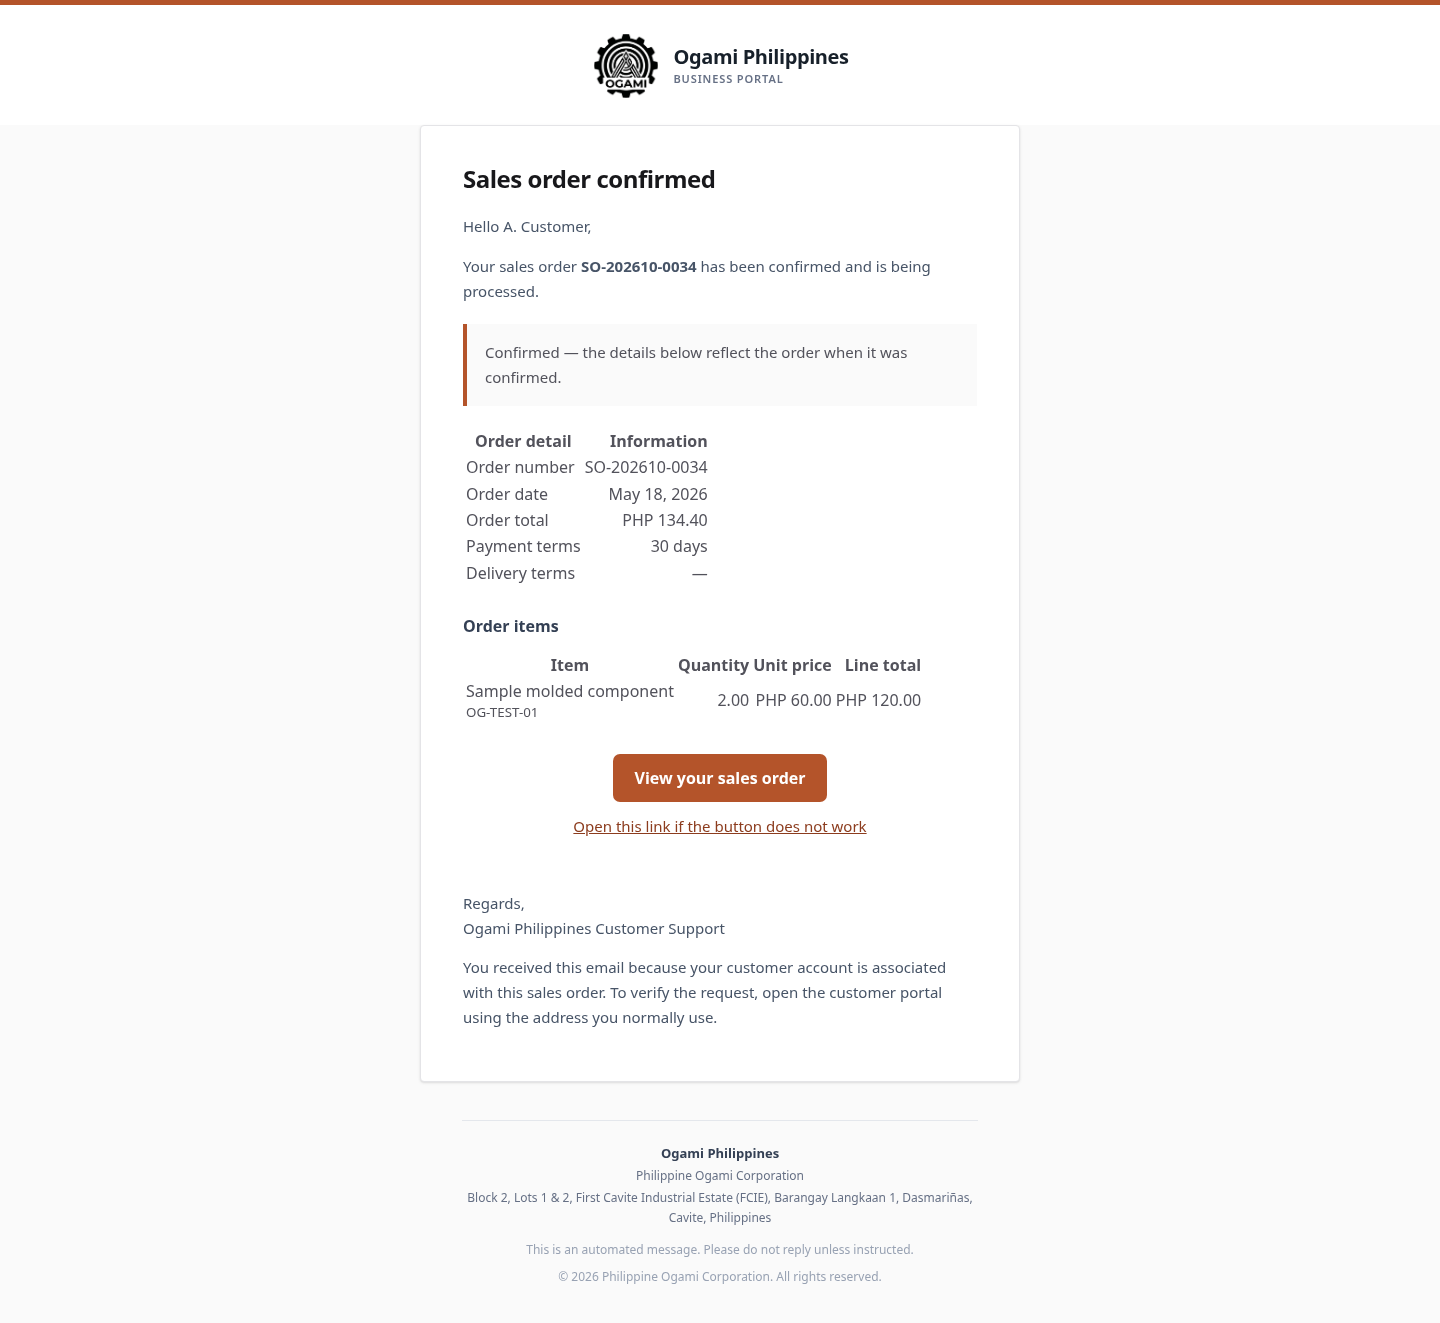
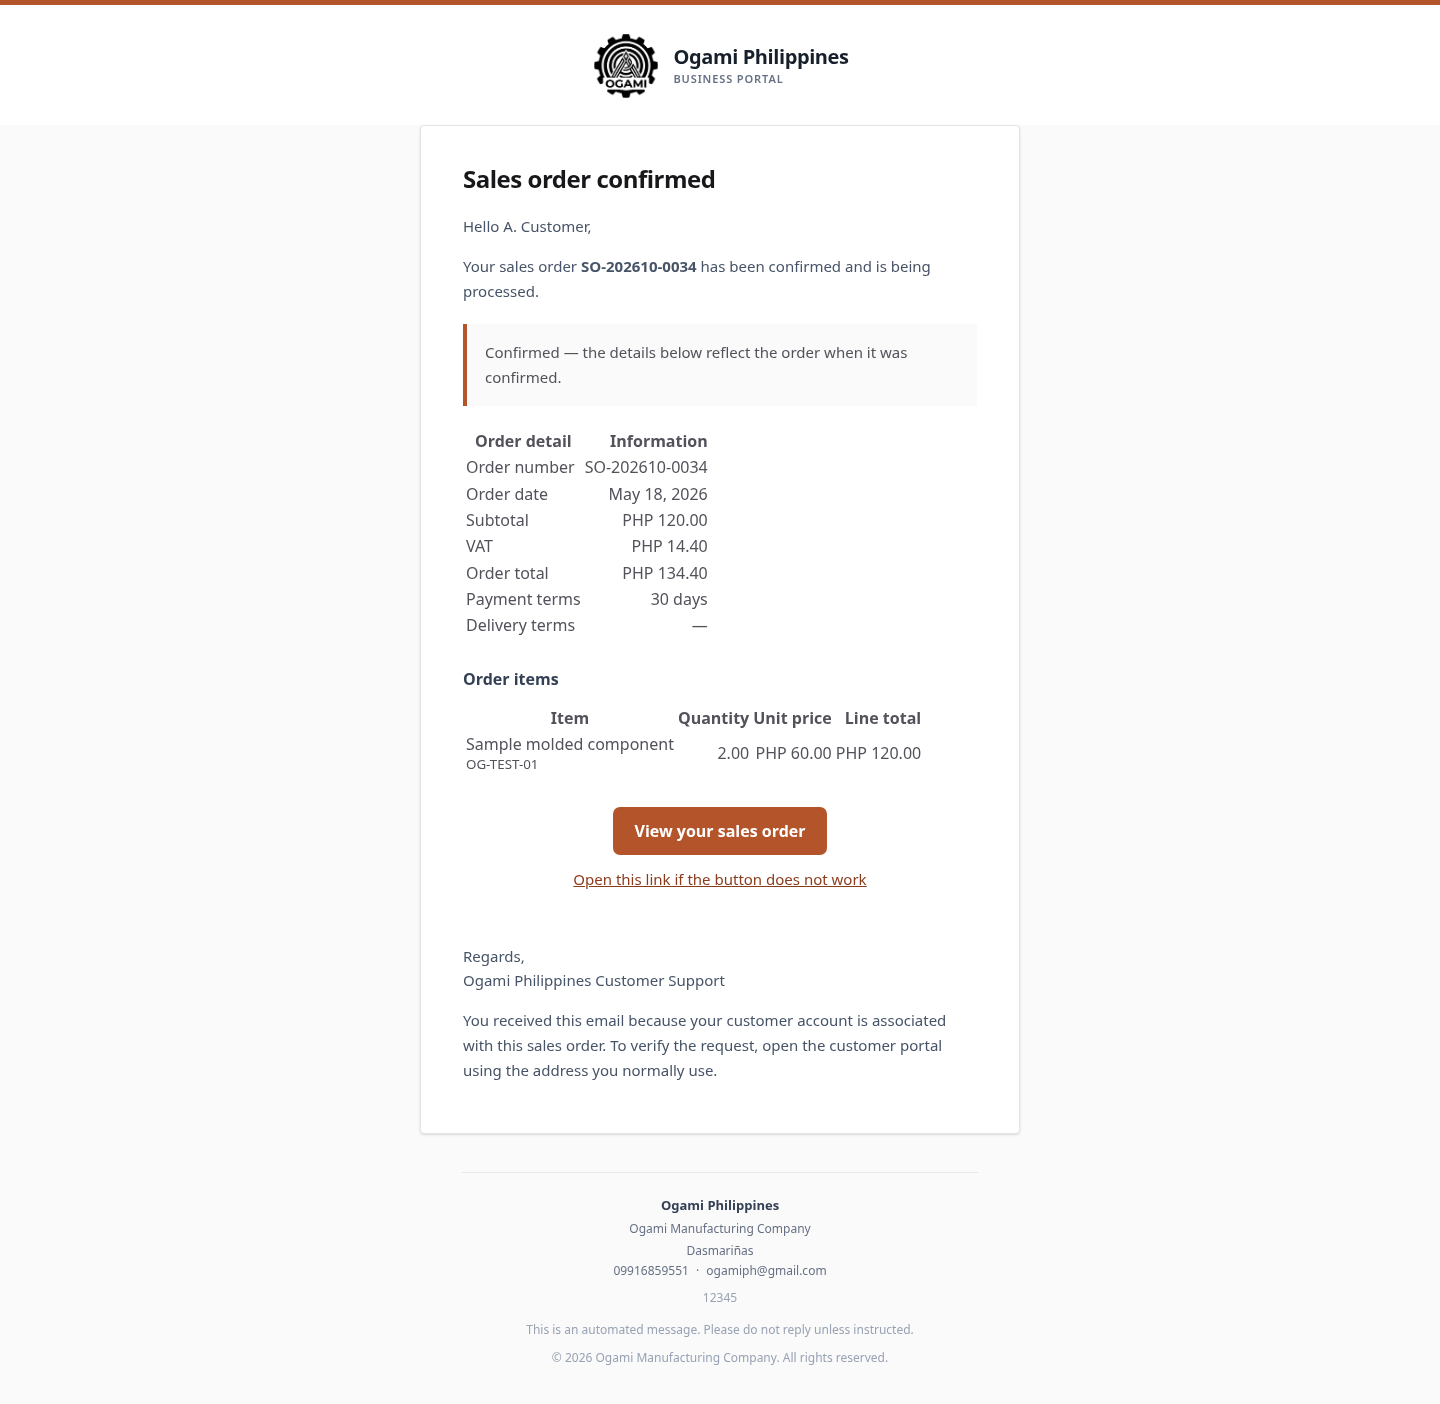
fix(email): include VAT in sales order confirmation

diff --git a/api/tests/Feature/Email/FeatureEmailIntegrationTest.php b/api/tests/Feature/Email/FeatureEmailIntegrationTest.php
@@ -53,6 +53,10 @@ class FeatureEmailIntegrationTest extends TestCase
 
     public function test_customer_sales_order_email_contains_order_data_and_portal_link(): void
     {
+        config([
+            'app.frontend_url' => 'https://portal.example.test',
+            'app.url' => 'https://api.example.test',
+        ]);
         $customer = Customer::factory()->create([
             'email' => 'customer@example.test',
             'contact_person' => 'A. <img src=x onerror=alert(1)> Customer',
@@ -82,9 +86,15 @@ class FeatureEmailIntegrationTest extends TestCase
 
             self::assertTrue($mail->hasTo('customer@example.test'));
             self::assertSame($salesOrder->so_number, $mail->snapshot['so_number']);
+            self::assertSame('120.00', $mail->snapshot['subtotal']);
+            self::assertSame('14.40', $mail->snapshot['vat_amount']);
             self::assertStringContainsString('<title>Sales order confirmed</title>', $rendered);
+            self::assertStringContainsString('Subtotal', $rendered);
+            self::assertStringContainsString(app(\App\Common\Services\CurrencyDisplayService::class)->format('14.40'), $rendered);
             self::assertStringContainsString('Order total', $rendered);
             self::assertStringContainsString(app(\App\Common\Services\CurrencyDisplayService::class)->format($salesOrder->total_amount), $rendered);
+            self::assertStringContainsString('https://portal.example.test/portal/customer/orders/'.$salesOrder->hash_id, $rendered);
+            self::assertStringNotContainsString('https://api.example.test/portal/customer/orders/', $rendered);
             self::assertStringContainsString('Sample molded component', $rendered);
             self::assertStringContainsString('Hello A. Customer,', $rendered);
             self::assertStringNotContainsString('<img src=x', $rendered);
@@ -107,7 +117,12 @@ class FeatureEmailIntegrationTest extends TestCase
             'email' => 'customer@example.test',
             'contact_person' => 'Original Contact',
         ]);
-        $salesOrder = SalesOrder::factory()->create(['customer_id' => $customer->id, 'total_amount' => '120.00']);
+        $salesOrder = SalesOrder::factory()->create([
+            'customer_id' => $customer->id,
+            'subtotal' => '120.00',
+            'vat_amount' => '0.00',
+            'total_amount' => '120.00',
+        ]);
         $product = Product::factory()->create(['name' => 'Original Part', 'part_number' => 'PART-OLD']);
         $item = SalesOrderItem::factory()->create([
             'sales_order_id' => $salesOrder->id,
@@ -119,7 +134,7 @@ class FeatureEmailIntegrationTest extends TestCase
         $event = new SalesOrderConfirmed($salesOrder->fresh());
 
         $customer->update(['email' => 'changed@example.test', 'contact_person' => 'Changed Contact']);
-        $salesOrder->update(['total_amount' => '999.00']);
+        $salesOrder->update(['subtotal' => '999.00', 'vat_amount' => '0.00', 'total_amount' => '999.00']);
         $item->update(['quantity' => '9.00', 'unit_price' => '111.00', 'total' => '999.00']);
         $product->update(['name' => 'Changed Part', 'part_number' => 'PART-NEW']);
 
@@ -132,6 +147,7 @@ class FeatureEmailIntegrationTest extends TestCase
                 && str_contains($rendered, 'Original Contact')
                 && str_contains($rendered, '120.00')
                 && str_contains($rendered, 'Original Part')
+                && str_contains($rendered, app(\App\Common\Services\CurrencyDisplayService::class)->format('120.00'))
                 && ! str_contains($rendered, 'Changed Contact')
                 && ! str_contains($rendered, '999.00')
                 && ! str_contains($rendered, 'Changed Part');

diff --git a/api/app/Modules/CRM/Mail/CustomerSalesOrderConfirmedMail.php b/api/app/Modules/CRM/Mail/CustomerSalesOrderConfirmedMail.php
@@ -71,6 +71,8 @@ class CustomerSalesOrderConfirmedMail extends QueuedMailable
                     'so_number' => $this->safeMarkdownText($snapshot['so_number'], 'Sales order'),
                     'delivery_terms' => $this->safeMarkdownText($snapshot['delivery_terms'] ?? null, ''),
                     'date' => $snapshot['date'] ? \Illuminate\Support\Carbon::parse($snapshot['date'])->format('M d, Y') : null,
+                    'subtotal' => isset($snapshot['subtotal']) ? $currency->format($snapshot['subtotal']) : null,
+                    'vat_amount' => isset($snapshot['vat_amount']) ? $currency->format($snapshot['vat_amount']) : null,
                     'total_amount' => $currency->format($snapshot['total_amount']),
                 ],
                 'items' => $items,

diff --git a/api/app/Modules/CRM/Events/SalesOrderConfirmed.php b/api/app/Modules/CRM/Events/SalesOrderConfirmed.php
@@ -41,6 +41,8 @@ class SalesOrderConfirmed implements ShouldBroadcast, ToleratesNewerModelState
             'customer_name' => $salesOrder->customer?->contact_person ?: ($salesOrder->customer?->name ?: 'Customer'),
             'so_number' => (string) $salesOrder->so_number,
             'date' => $salesOrder->date?->toDateString(),
+            'subtotal' => (string) $salesOrder->subtotal,
+            'vat_amount' => (string) $salesOrder->vat_amount,
             'total_amount' => (string) $salesOrder->total_amount,
             'payment_terms_days' => $salesOrder->payment_terms_days,
             'delivery_terms' => $salesOrder->delivery_terms,

diff --git a/api/resources/views/emails/customer/sales-order-confirmed.blade.php b/api/resources/views/emails/customer/sales-order-confirmed.blade.php
@@ -13,6 +13,12 @@ Confirmed — the details below reflect the order when it was confirmed.
 |---|---:|
 | Order number | {{ $order['so_number'] }} |
 | Order date | {{ $order['date'] ?? '—' }} |
+@if ($order['subtotal'] !== null)
+| Subtotal | {{ $order['subtotal'] }} |
+@endif
+@if ($order['vat_amount'] !== null)
+| VAT | {{ $order['vat_amount'] }} |
+@endif
 | Order total | {{ $order['total_amount'] }} |
 | Payment terms | {{ $order['payment_terms_days'] !== null ? $order['payment_terms_days'].' days' : '—' }} |
 | Delivery terms | {{ $order['delivery_terms'] ?: '—' }} |

diff --git a/docs/emails/E-010-sales-order-confirmation.md b/docs/emails/E-010-sales-order-confirmation.md
@@ -2,13 +2,13 @@
 
 ## Snapshot behavior
 
-`SalesOrderConfirmed` now captures customer recipient/name, sales-order facts, product labels, quantities, unit prices, line totals, and the customer-portal URL when the confirmation event is created. The queued listener uses that snapshot and still suppresses delivery if the live order has since been cancelled. Old outbox rows without the optional snapshot and already queued mailables retain a current-value compatibility fallback.
+`SalesOrderConfirmed` now captures customer recipient/name, subtotal, VAT, total, product labels, quantities, unit prices, line totals, and the customer-portal URL when the confirmation event is created. The email shows subtotal, VAT, and total from that snapshot so line-item math is clear. The queued listener uses the snapshot and still suppresses delivery if the live order has since been cancelled. Old outbox rows without the optional snapshot and already queued mailables retain a current-value compatibility fallback; breakdown rows are omitted when old snapshots lack those fields.
 
 ## Template and verification
 
 The redesigned message uses the shared brand shell, title/preheader, settings-based currency display, event-time order snapshot, up to ten line items, and the customer SPA order route. Plain-text content comes from the same Markdown view. Long product and contact strings are sanitized before Markdown rendering.
 
-Focused confirmation tests: 2 passed, 20 assertions. Outbox fact-event compatibility tests: 7 passed, 15 assertions. Both used the `array` mailer. Rendered HTML was 27 KB and browser-inspected at 1440px desktop and 390px mobile in light/dark modes; screenshots are under `screenshots/e010-sales-order-*.png`. No email sent. Real email clients remain unverified.
+Focused confirmation tests were updated to verify the subtotal/VAT breakdown and distinct SPA/API hosts. Current result pending CI. Outbox fact-event compatibility tests previously passed: 7 tests, 15 assertions. Rendered HTML is 29,277 bytes. Inspected four browser screenshots at 1440px desktop and 390px mobile in light/dark modes: subtotal PHP 120.00 plus VAT PHP 14.40 equals order total PHP 134.40; the mobile item description wraps without horizontal overflow. No email sent. Real email clients remain unverified. Footer screenshot uses seeded branding data; owner must verify company details before external delivery.
 
 ## Review notes
 
